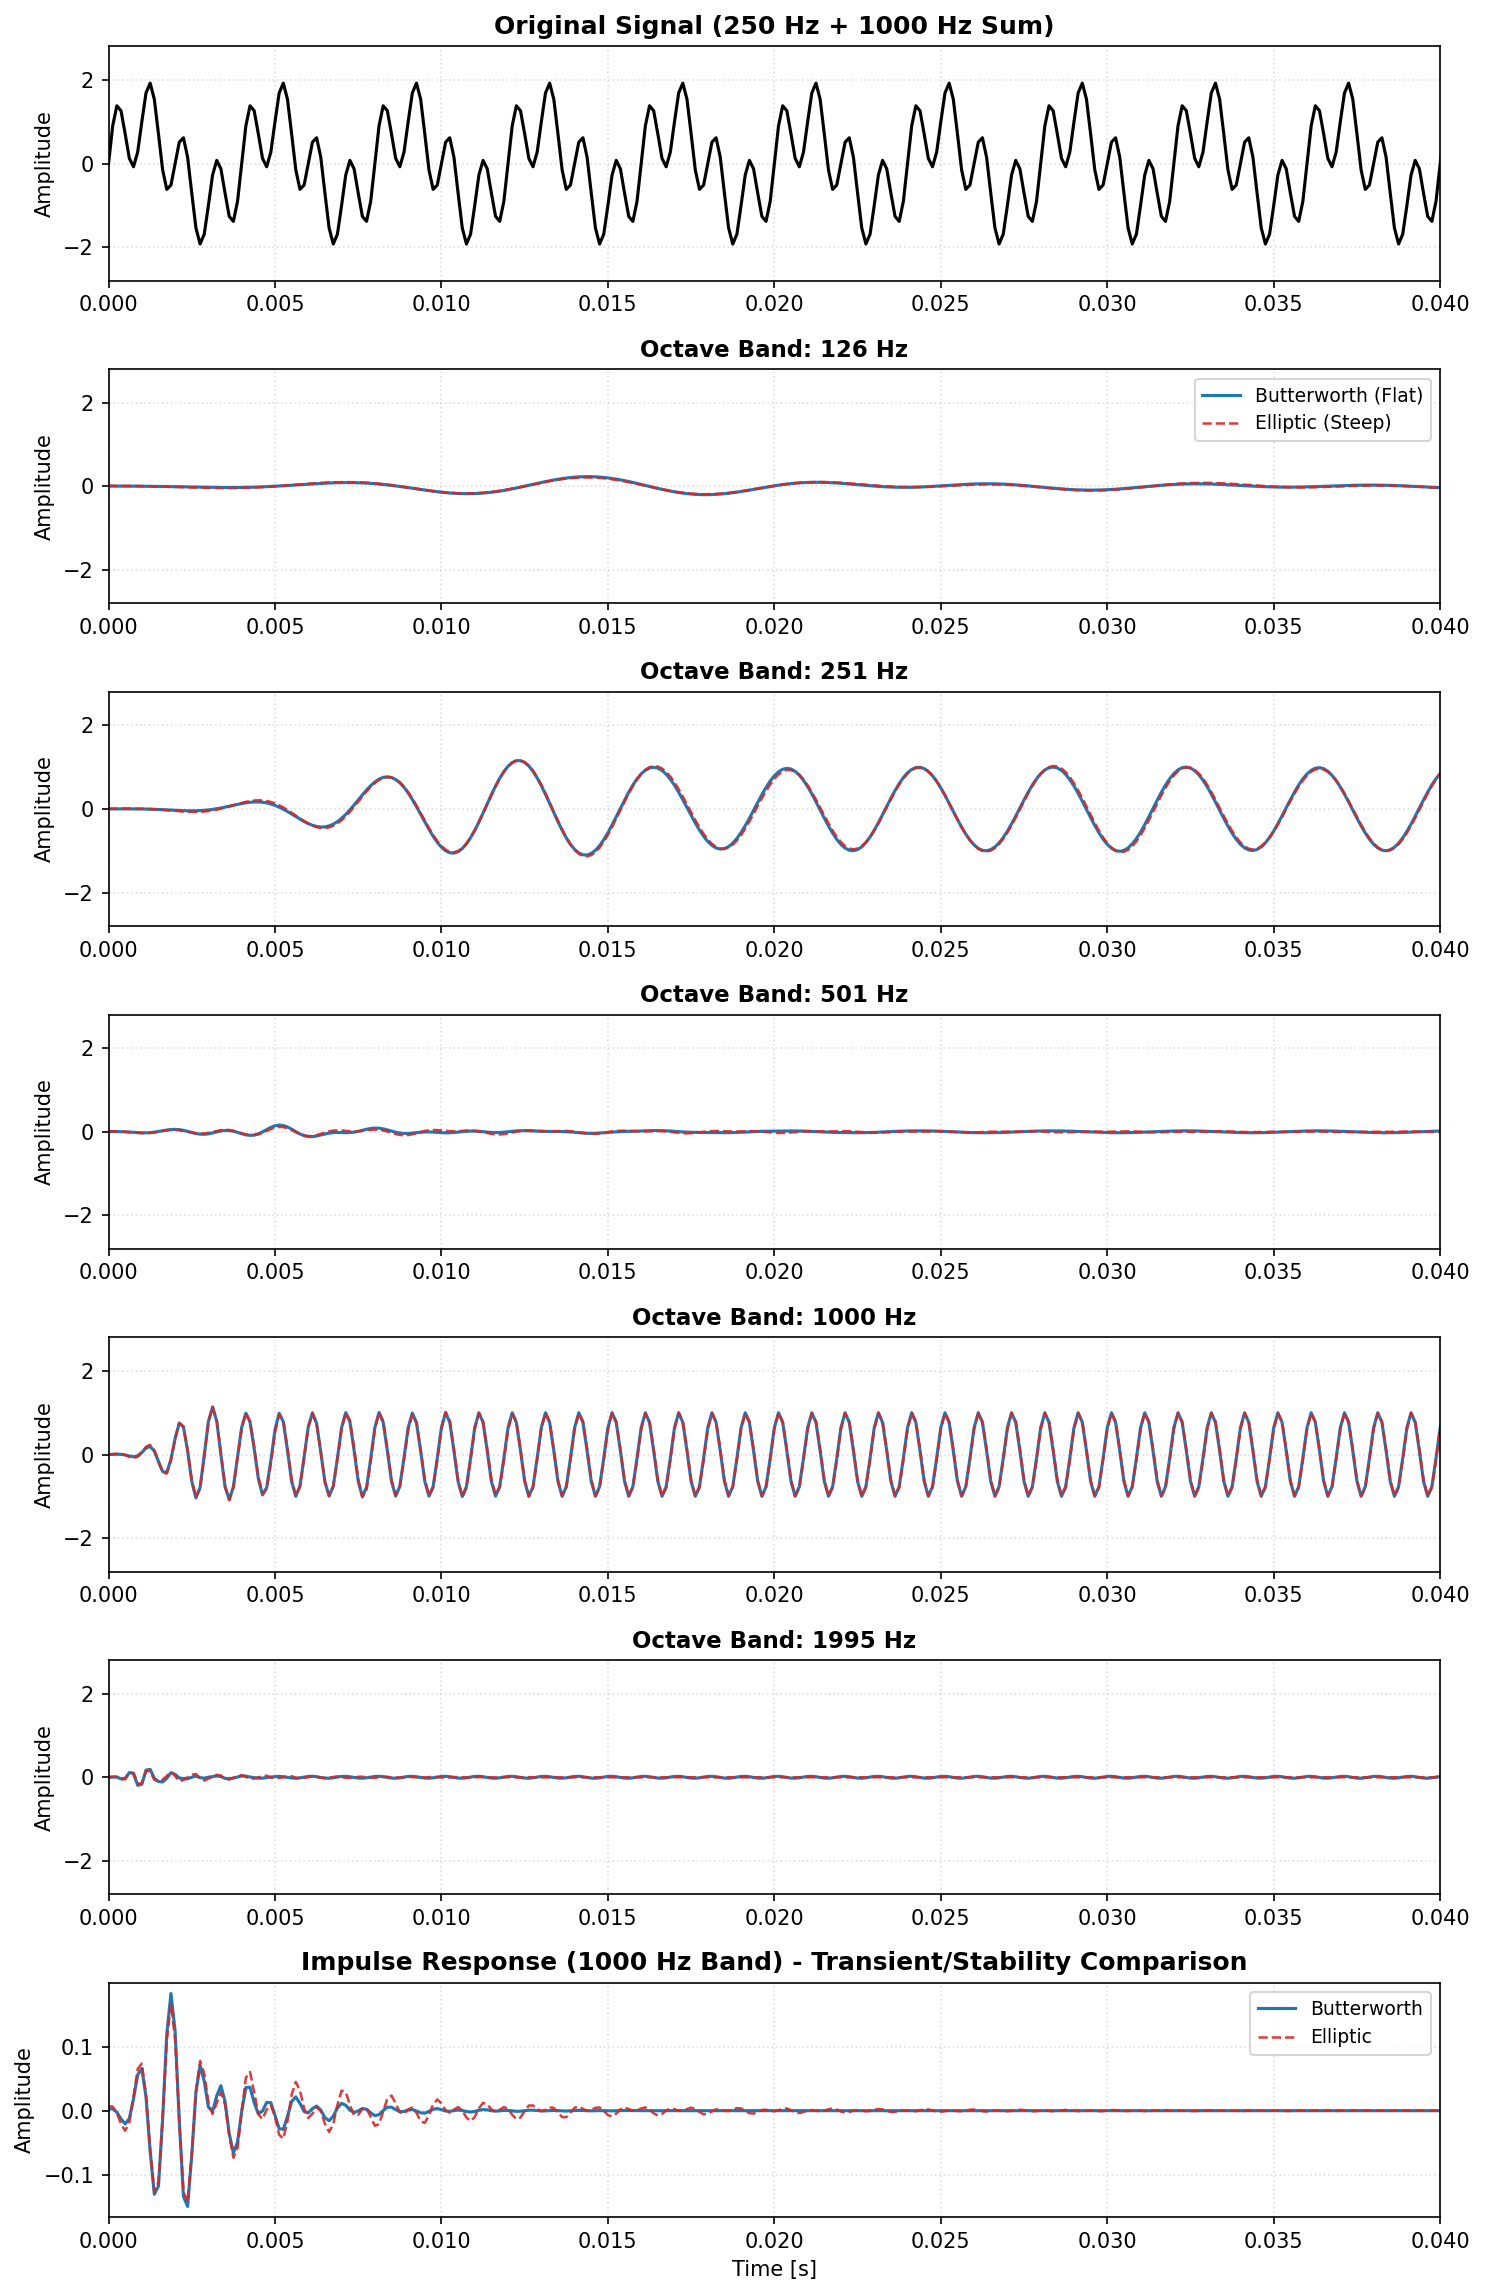
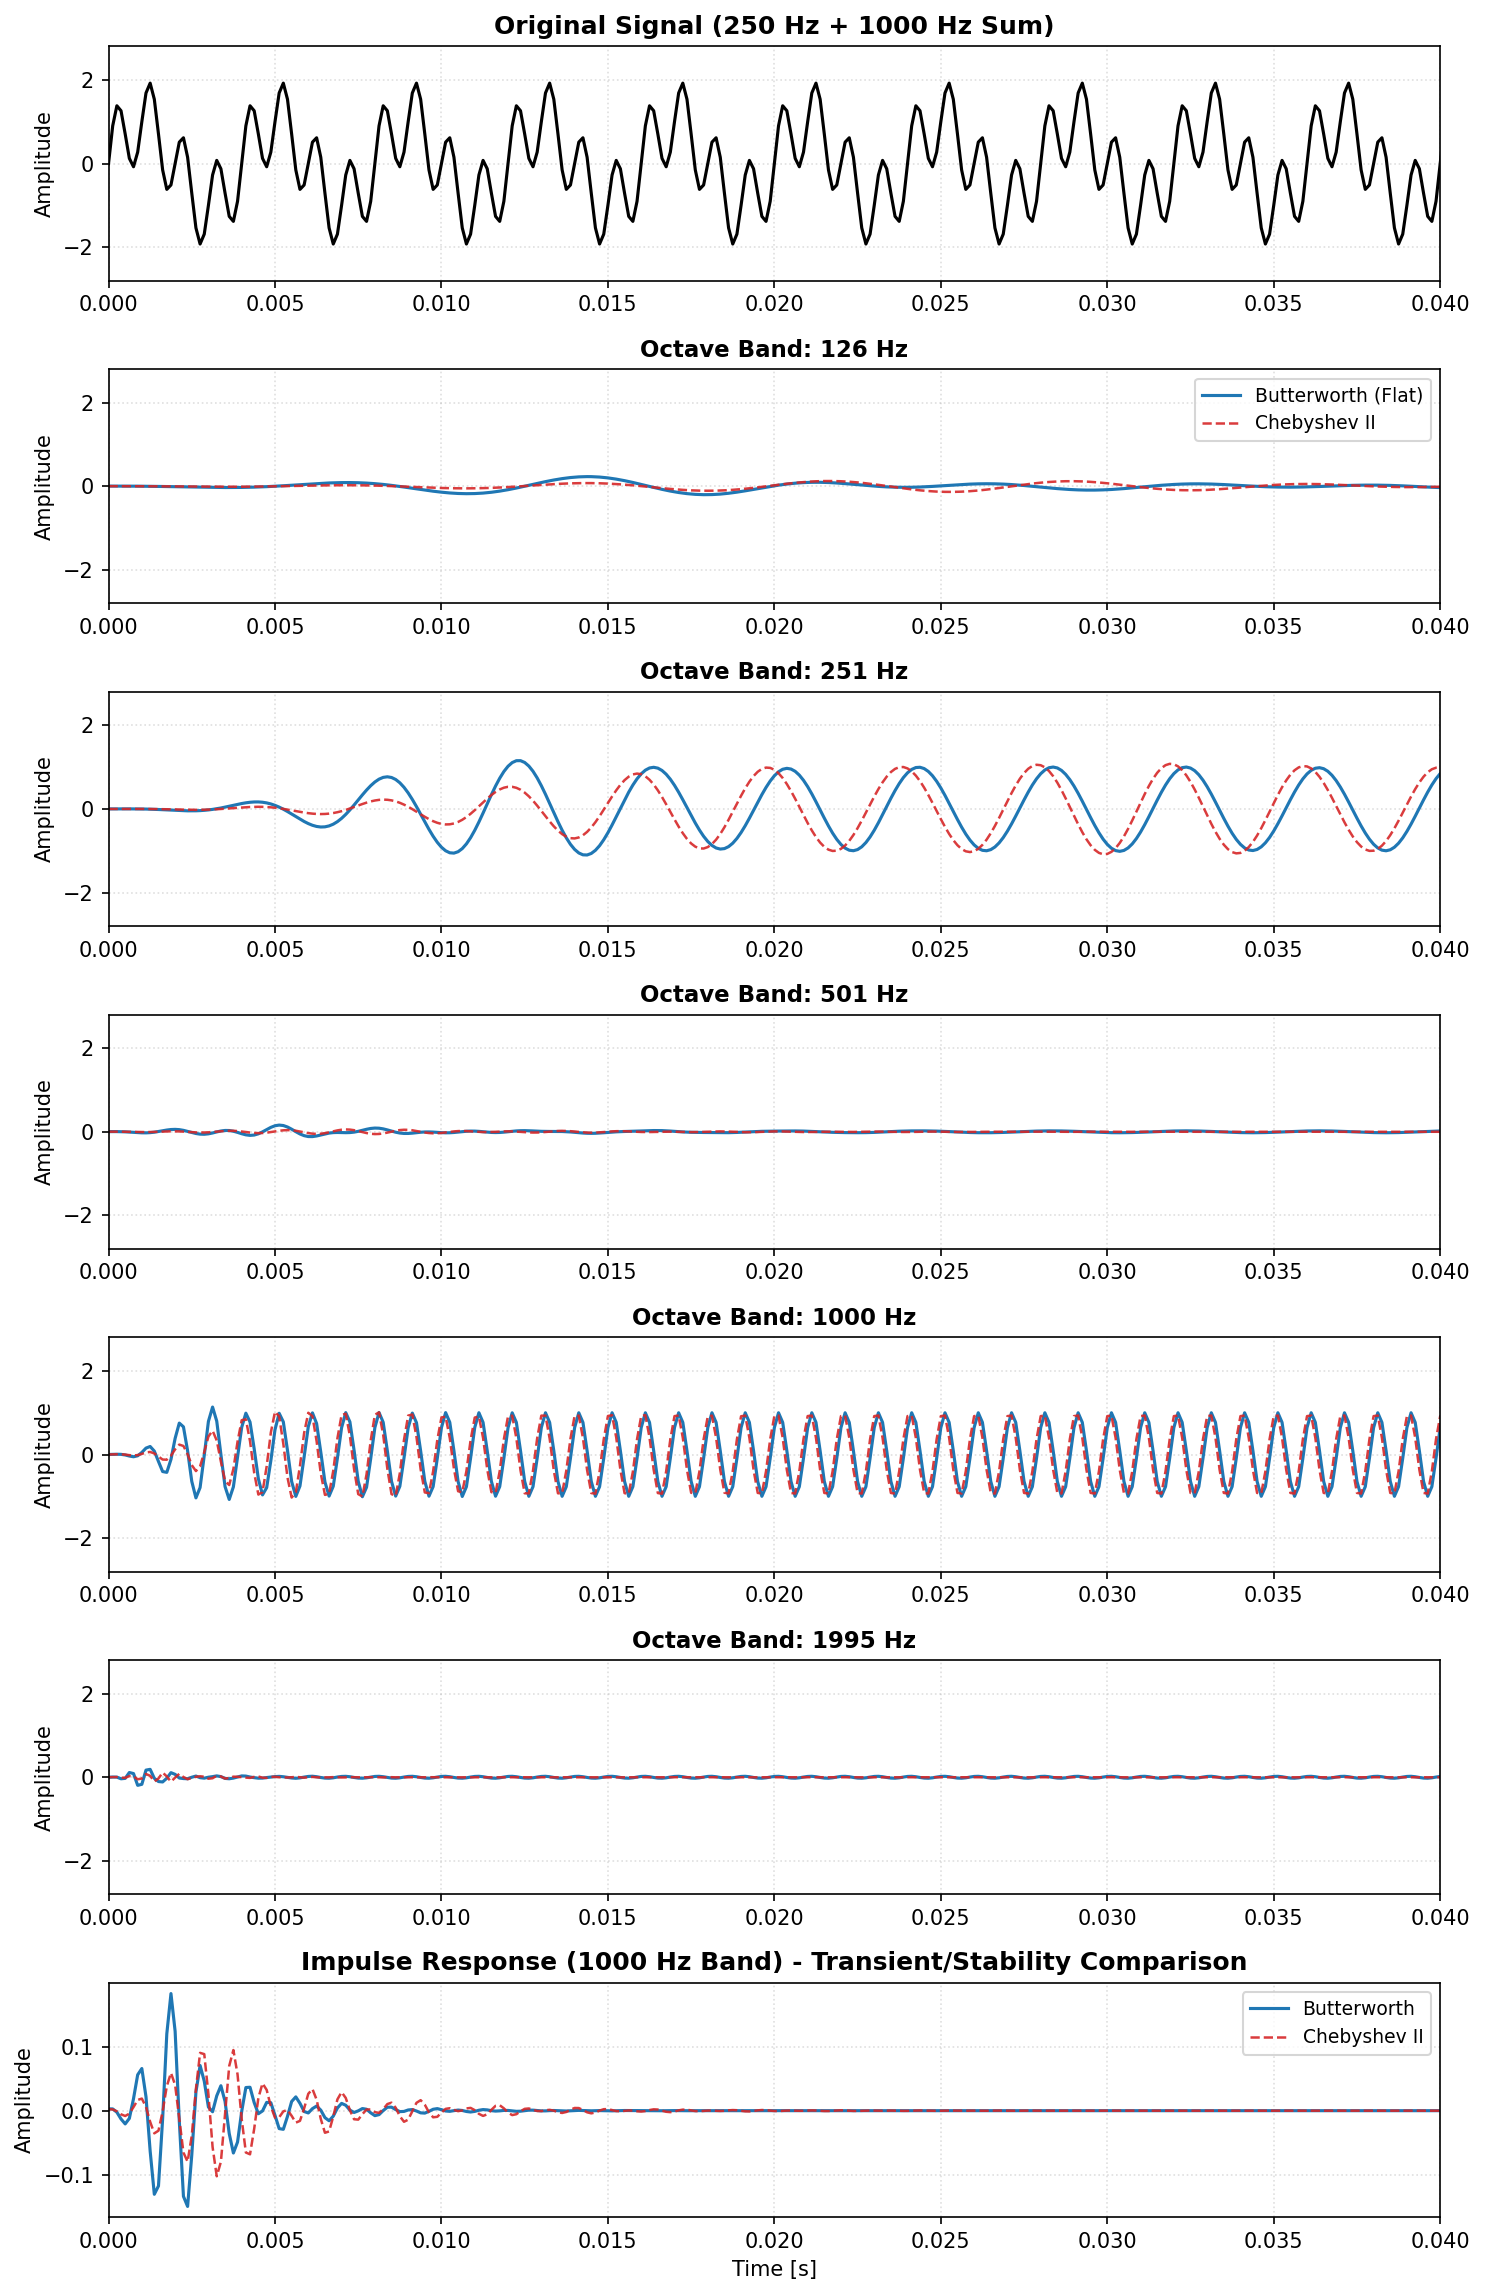
feat: updated decomposition to compare Butterworth vs Chebyshev II (#26)

diff --git a/generate_graphs.py b/generate_graphs.py
@@ -240,8 +240,8 @@ def generate_multichannel_response(output_dir: str) -> None:
 
 
 def generate_decomposition_plot(output_dir: str) -> None:
-    """Generate time-domain decomposition plot comparing two filter types (Butterworth vs Elliptic)."""
-    print("Generating signal_decomposition.png with comparison...")
+    """Generate time-domain decomposition plot comparing two filter types (Butterworth vs Chebyshev II)."""
+    print("Generating signal_decomposition.png with comparison (Butter vs Cheby2)...")
     fs = 8000
     duration = 0.5
     t = np.linspace(0, duration, int(fs * duration), endpoint=False)
@@ -250,14 +250,15 @@ def generate_decomposition_plot(output_dir: str) -> None:
     y = np.sin(2 * np.pi * 250 * t) + np.sin(2 * np.pi * 1000 * t)
 
     # Filter into 1/1 octave bands with two different architectures
+    # We use Chebyshev II (flat passband, no ripple)
     bank_butter = OctaveFilterBank(fs=fs, fraction=1, order=6, limits=[100, 2000], filter_type="butter")
-    bank_ellip = OctaveFilterBank(fs=fs, fraction=1, order=6, limits=[100, 2000], filter_type="ellip")
+    bank_cheby2 = OctaveFilterBank(fs=fs, fraction=1, order=6, limits=[100, 2000], filter_type="cheby2")
     
     _, freq, xb_butter = bank_butter.filter(y, sigbands=True)
-    _, _, xb_ellip = bank_ellip.filter(y, sigbands=True)
+    _, _, xb_cheby2 = bank_cheby2.filter(y, sigbands=True)
 
     num_plots = len(xb_butter) + 2 # +1 for original, +1 for impulse response
-    _, axes = plt.subplots(num_plots, 1, figsize=(10, 2.2 * num_plots), sharex=False)
+    fig, axes = plt.subplots(num_plots, 1, figsize=(10, 2.2 * num_plots), sharex=False)
 
     # Fixed Y limits for decomposition
     y_lim = (-2.8, 2.8)
@@ -271,7 +272,7 @@ def generate_decomposition_plot(output_dir: str) -> None:
     # 2. Filtered Bands Comparison
     for i, (f_center) in enumerate(freq):
         axes[i + 1].plot(t, xb_butter[i], color=COLOR_PRIMARY, linewidth=1.5, label="Butterworth (Flat)")
-        axes[i + 1].plot(t, xb_ellip[i], color=COLOR_SECONDARY, linewidth=1.2, linestyle="--", alpha=0.9, label="Elliptic (Steep)")
+        axes[i + 1].plot(t, xb_cheby2[i], color=COLOR_SECONDARY, linewidth=1.2, linestyle="--", alpha=0.9, label="Chebyshev II")
         axes[i + 1].set_title(f"Octave Band: {f_center:.0f} Hz", fontsize=11, fontweight="bold")
         axes[i + 1].set_ylim(y_lim)
         axes[i + 1].set_xlim(0, 0.04)
@@ -282,11 +283,11 @@ def generate_decomposition_plot(output_dir: str) -> None:
     impulse = np.zeros(len(t))
     impulse[0] = 1.0
     _, _, ir_butter = bank_butter.filter(impulse, sigbands=True)
-    _, _, ir_ellip = bank_ellip.filter(impulse, sigbands=True)
+    _, _, ir_cheby2 = bank_cheby2.filter(impulse, sigbands=True)
     
     idx_1000 = np.argmin(np.abs(np.array(freq) - 1000))
     axes[-1].plot(t, ir_butter[idx_1000], color=COLOR_PRIMARY, linewidth=1.5, label="Butterworth")
-    axes[-1].plot(t, ir_ellip[idx_1000], color=COLOR_SECONDARY, linewidth=1.2, linestyle="--", alpha=0.9, label="Elliptic")
+    axes[-1].plot(t, ir_cheby2[idx_1000], color=COLOR_SECONDARY, linewidth=1.2, linestyle="--", alpha=0.9, label="Chebyshev II")
     axes[-1].set_title(f"Impulse Response ({freq[idx_1000]:.0f} Hz Band) - Transient/Stability Comparison", fontweight="bold")
     axes[-1].set_xlim(0, 0.04)
     axes[-1].set_xlabel("Time [s]")
@@ -299,6 +300,7 @@ def generate_decomposition_plot(output_dir: str) -> None:
     plt.tight_layout()
     plt.savefig(os.path.join(output_dir, "signal_decomposition.png"))
     plt.close()
+
 
 
 def generate_weighting_responses(output_dir: str) -> None:
